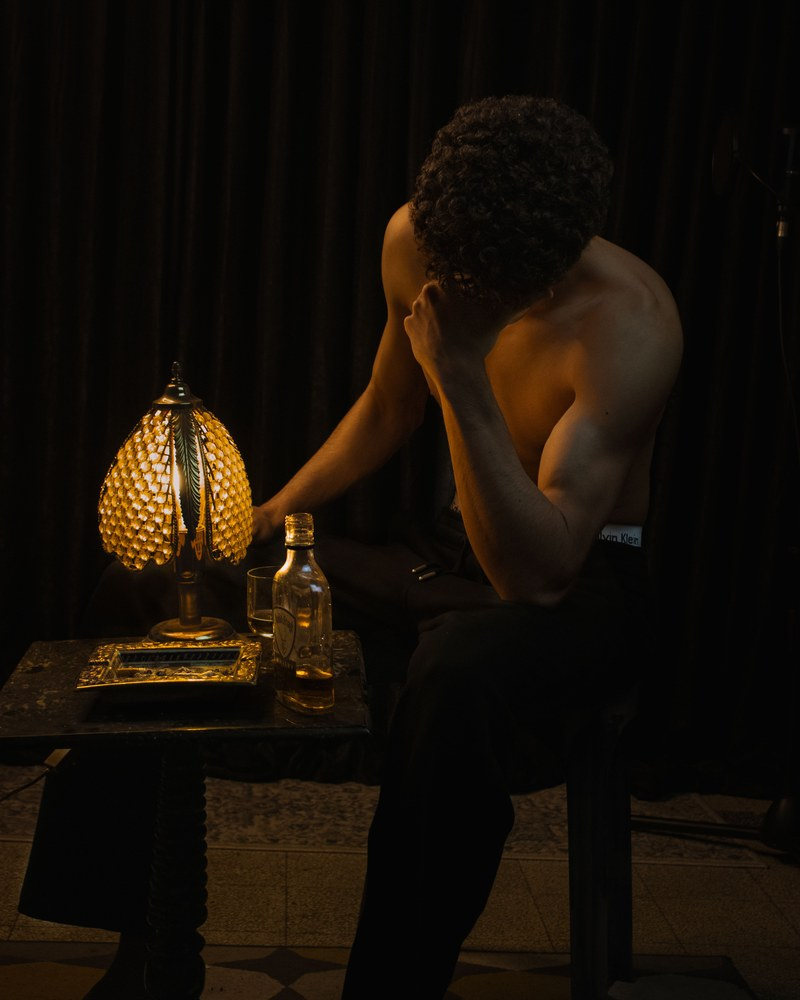
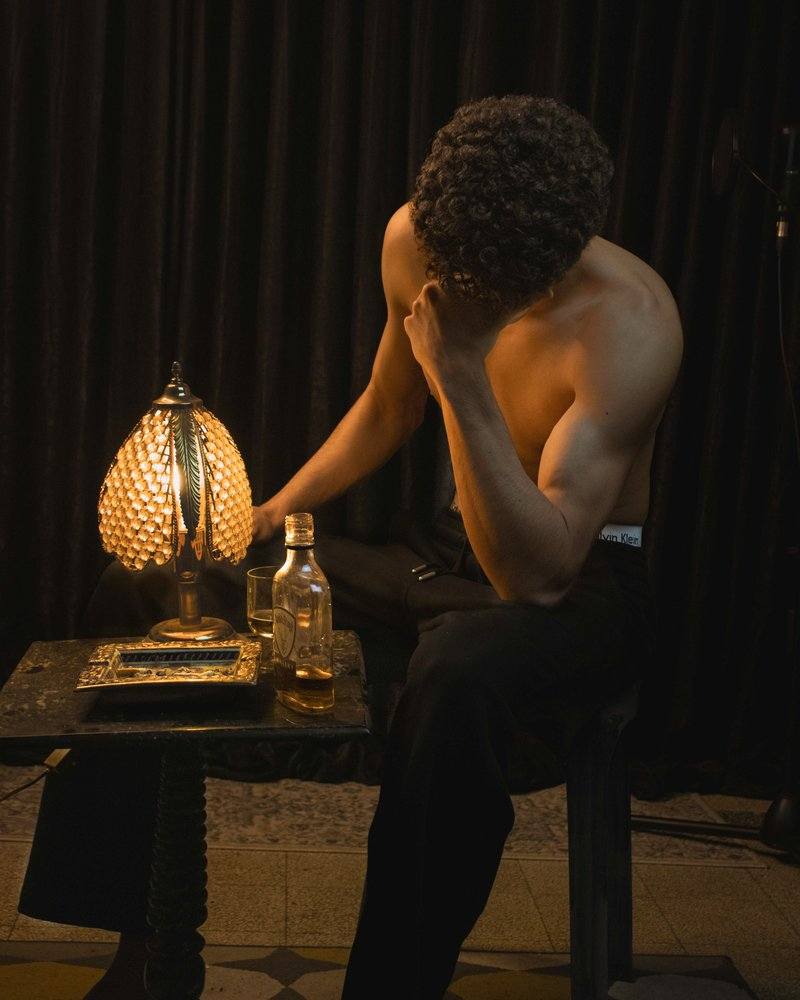
hero corregido, tipografia, galeria, descarga unica en zip

diff --git a/styles.css b/styles.css
@@ -97,6 +97,7 @@ a { color: inherit; }
   font-size: clamp(28px, 4vw, 40px);
   margin: 0 0 12px;
   color: var(--cream);
+  letter-spacing: 1px;
 }
 
 .section-sub {
@@ -124,6 +125,7 @@ a { color: inherit; }
   line-height: 1.08;
   margin: 0 0 24px;
   color: var(--cream);
+  text-shadow: 0 2px 20px rgba(0,0,0,0.4);
 }
 
 .hero-sub {
@@ -233,6 +235,32 @@ a { color: inherit; }
   margin-top: 12px;
 }
 
+.hero-photo img {
+  width: 100%;
+  aspect-ratio: 4/5;
+  object-fit: cover;
+  border-radius: 18px;
+  border: 1px solid var(--card-border);
+  display: block;
+}
+
+.who-grid {
+  display: flex;
+  flex-direction: column;
+  gap: 20px;
+  max-width: 640px;
+  margin: 0 auto;
+}
+.who-item {
+  font-family: var(--font-display);
+  font-size: 18px;
+  line-height: 1.5;
+  color: var(--cream);
+  padding-left: 20px;
+  border-left: 2px solid var(--amber);
+  margin: 0;
+}
+
 /* ---------- CARDS ---------- */
 .cards { display: grid; gap: 20px; margin-bottom: 8px; }
 .cards-2 { grid-template-columns: repeat(2, 1fr); }
@@ -313,14 +341,18 @@ a { color: inherit; }
   grid-template-columns: repeat(4, 1fr);
   gap: 10px;
   margin-bottom: 8px;
+  background: var(--bg-alt);
+  padding: 10px;
+  border-radius: 14px;
+  border: 1px solid var(--card-border);
 }
 .gallery-grid img {
   width: 100%;
   aspect-ratio: 1;
   object-fit: cover;
-  border-radius: 8px;
-  border: 1px solid var(--card-border);
+  border-radius: 6px;
   display: block;
+  box-shadow: 0 4px 12px rgba(0,0,0,0.25);
 }
 
 @media (max-width: 640px) {

diff --git a/index.html b/index.html
@@ -47,6 +47,15 @@
   </div>
 </header>
 
+<!-- PARA QUIEN -->
+<section class="section section-dark" id="para-quien">
+  <div class="who-grid">
+    <p class="who-item">Para el que saca la misma foto de siempre y quiere que se note distinta.</p>
+    <p class="who-item">Para el que sube fotos de comida y no sabe por qué nunca quedan como en el restaurante.</p>
+    <p class="who-item">Para el que no tiene tiempo de aprender a editar, pero sí un toque.</p>
+  </div>
+</section>
+
 <!-- STARTER PACK -->
 <section class="section" id="starter">
   <p class="eyebrow">GRATIS</p>
@@ -58,20 +67,14 @@
       <img class="swatch" src="assets/swatches/flashback_2003.jpg" alt="FLASHBACK 2003">
       <h3 class="card-title">FLASHBACK 2003</h3>
       <p class="card-desc">Flash directo, fondo oscuro, piel con calor. Para selfies y noches de fiesta.</p>
-      <div class="card-btn-row">
-        <a href="assets/downloads/FLASHBACK_2003.xmp" class="btn btn-download" download>Descargar .xmp</a>
-        <a href="assets/downloads/FLASHBACK_2003_GUIDE.pdf" class="pdf-link-sm" target="_blank">Guía PDF</a>
-      </div>
+      <a href="assets/downloads/FLASHBACK_2003_PACK.zip" class="btn btn-download" download>Descargar preset</a>
     </article>
 
     <article class="card">
       <img class="swatch" src="assets/swatches/food_glow.jpg" alt="FOOD GLOW">
       <h3 class="card-title">FOOD GLOW</h3>
       <p class="card-desc">Sombras teal, luces doradas. Tu comida real, con mood de restaurante caro.</p>
-      <div class="card-btn-row">
-        <a href="assets/downloads/FOOD_GLOW.xmp" class="btn btn-download" download>Descargar .xmp</a>
-        <a href="assets/downloads/FOOD_GLOW_GUIDE.pdf" class="pdf-link-sm" target="_blank">Guía PDF</a>
-      </div>
+      <a href="assets/downloads/FOOD_GLOW_PACK.zip" class="btn btn-download" download>Descargar preset</a>
     </article>
   </div>
 </section>

diff --git a/script.js b/script.js
@@ -15,8 +15,12 @@
   loadGallery('galleryFlashback', 'flashback', 12);
   loadGallery('galleryFoodglow', 'foodglow', 12);
 })();
+
+// ---- Reveal slider (hero signature interaction) ----
 (function () {
-  const frame = document.getElementById('revealWidget').querySelector('.reveal-frame');
+  const widget = document.getElementById('revealWidget');
+  if (!widget) return;
+  const frame = widget.querySelector('.reveal-frame');
   const before = document.getElementById('revealBefore');
   const handle = document.getElementById('revealHandle');
   const beforeImg = before.querySelector('img');